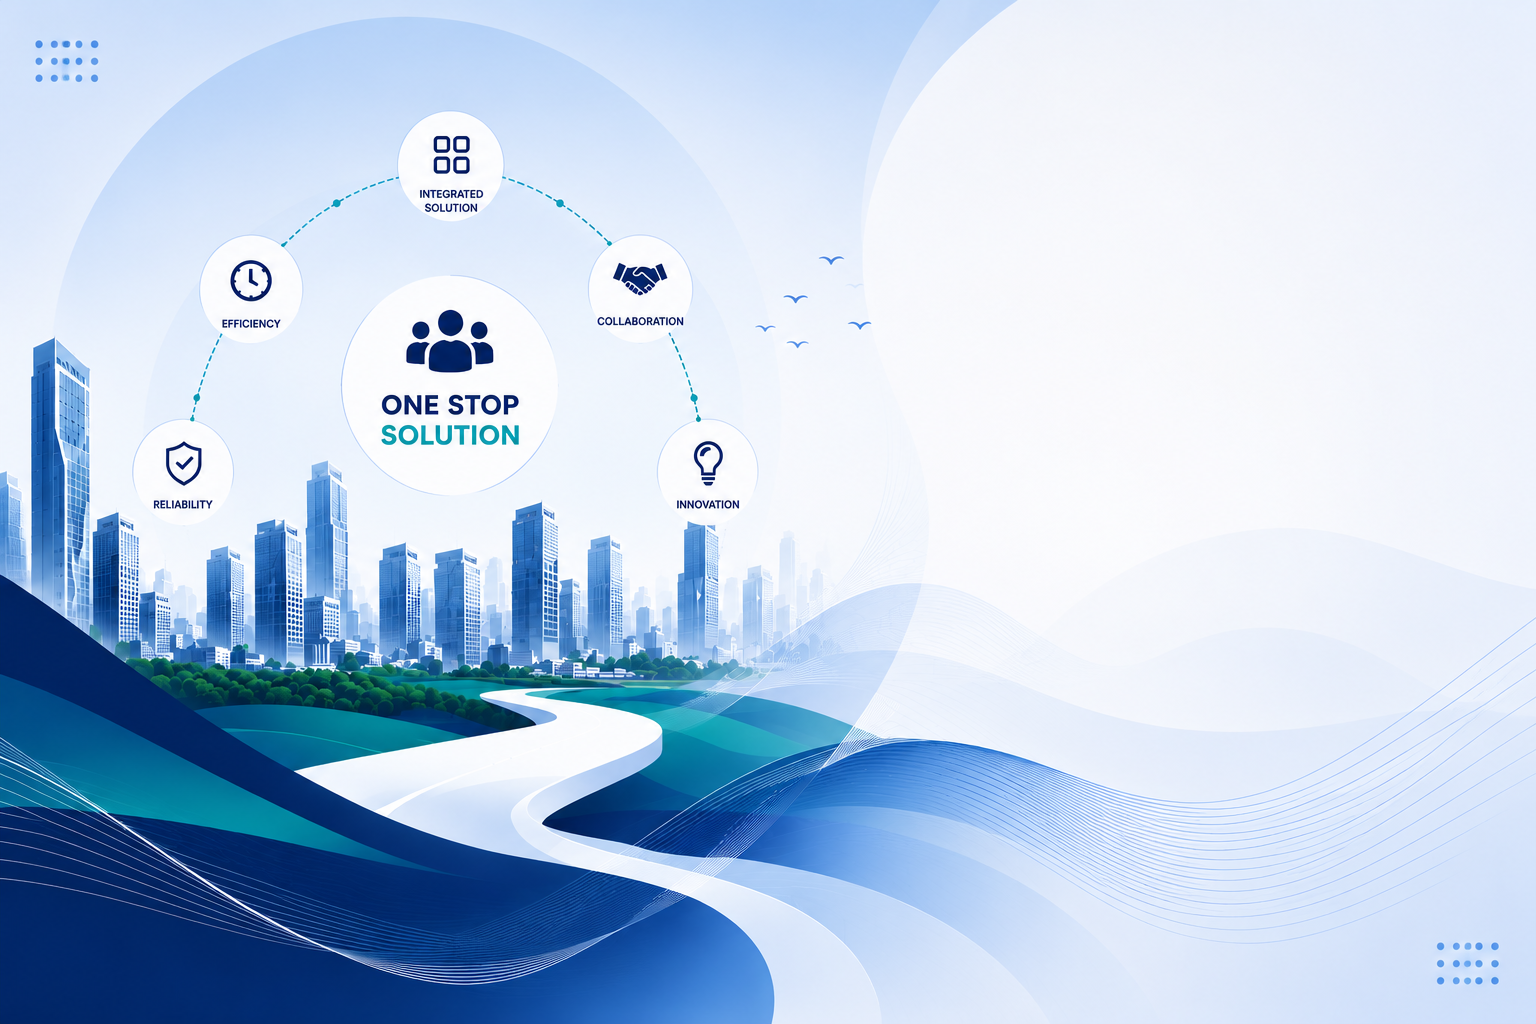
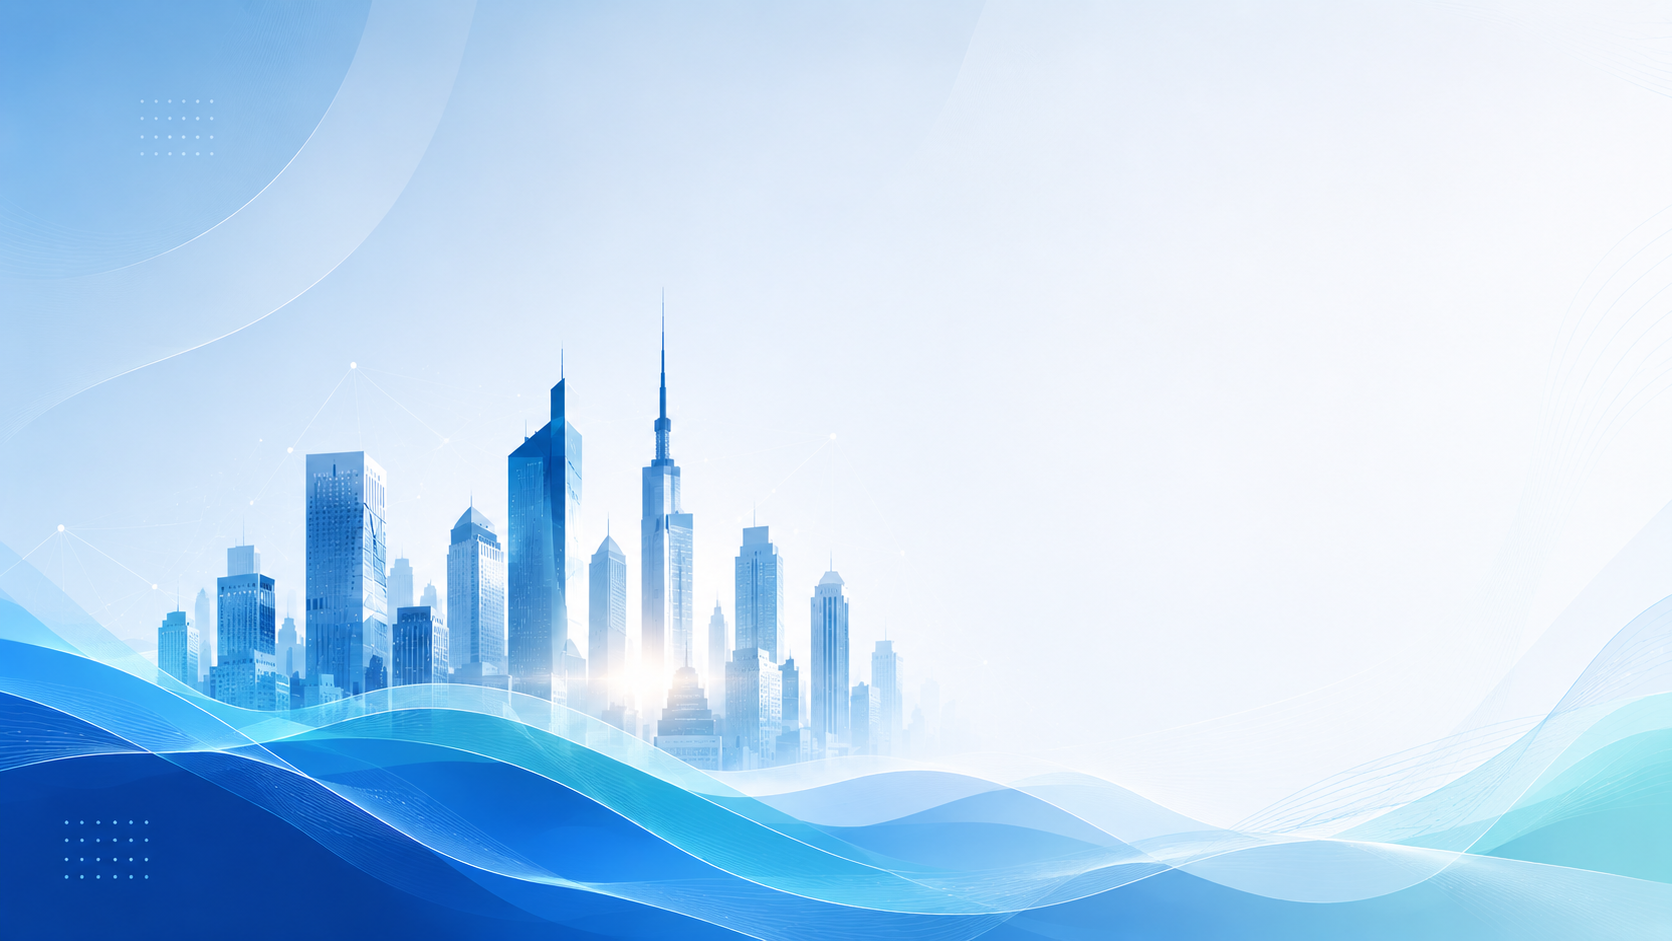
Update preview dan login page 15 Juli 2026

diff --git a/frontend/src/app/login/page.tsx b/frontend/src/app/login/page.tsx
@@ -6,7 +6,7 @@ import Image from 'next/image';
 import Cookies from 'js-cookie';
 import api from '@/lib/api';
 import { Button } from '@/components/ui/button';
-import { Loader2, Globe, ChevronDown, User, Lock, Eye, EyeOff } from 'lucide-react';
+import { Loader2, Globe, ChevronDown, User, Lock, Eye, EyeOff, ShieldAlert, Sparkles, ArrowRight } from 'lucide-react';
 
 import logoImage from '../../../public/logo_syncore.png';
 import bgImage from '../../../public/images/background_loginpage.png';
@@ -42,118 +42,146 @@ export default function LoginPage() {
     };
 
     return (
-        <div className="flex h-screen w-full font-sans overflow-hidden items-center relative bg-slate-50 antialiased">
+        <div className="flex min-h-screen w-full font-sans items-center justify-center relative bg-[#f8fafc] antialiased p-4 md:p-8">
             
-            {/* Background Image using static import for guaranteed loading */}
-            <div className="absolute inset-0 z-0">
-                <Image 
-                    src={bgImage}
-                    alt="Background Syncore"
-                    fill
-                    priority
-                    quality={100}
-                    unoptimized={true}
-                    className="object-cover object-center"
-                />
+            {/* Classic Enterprise Rings Background */}
+            <div className="absolute inset-0 z-0 overflow-hidden bg-gradient-to-br from-[#f4f7f9] via-[#e2eaf4] to-[#d1e0f0]">
+                {/* Massive subtle geometric rings */}
+                <div className="absolute -top-[30%] -right-[10%] w-[70vw] h-[70vw] rounded-full border-[100px] border-white/40 shadow-xl shadow-blue-900/5 mix-blend-overlay"></div>
+                <div className="absolute -bottom-[40%] -left-[10%] w-[60vw] h-[60vw] rounded-full border-[80px] border-white/30 shadow-lg shadow-blue-900/5 mix-blend-overlay"></div>
+                
+                {/* Additional floating ring for depth */}
+                <div className="absolute top-[20%] left-[20%] w-[30vw] h-[30vw] rounded-full border-[40px] border-white/20 mix-blend-overlay"></div>
             </div>
 
-            {/* Language Selector */}
-            <div className="absolute top-8 right-8 z-20 flex items-center gap-2 text-sm text-slate-700 font-medium bg-white px-5 py-2.5 rounded-full cursor-pointer hover:bg-slate-50 transition-colors shadow-sm border border-slate-200">
-                <Globe className="w-4 h-4 text-teal-600" />
-                <span>Bahasa Indonesia</span>
-                <ChevronDown className="w-4 h-4 text-teal-600" />
+            {/* Language Selector (Floating) - Light Theme */}
+            <div className="absolute top-6 right-6 lg:top-8 lg:right-10 z-30 flex items-center gap-2 text-sm text-slate-600 font-semibold bg-white/80 backdrop-blur-md px-5 py-2.5 rounded-full cursor-pointer hover:bg-white hover:text-[#005a9c] transition-all shadow-sm border border-slate-200/50">
+                <Globe className="w-4 h-4" />
+                <span className="hidden sm:inline">Bahasa Indonesia</span>
+                <span className="sm:hidden">ID</span>
+                <ChevronDown className="w-4 h-4" />
             </div>
 
-            {/* Login Container (Moved to the Right) */}
-            <div className="relative z-10 w-full max-w-[420px] mx-4 md:ml-auto md:mr-[8%] lg:mr-[12%]">
-                <div className="bg-white p-8 md:p-10 rounded-3xl shadow-[0_10px_40px_-10px_rgba(0,143,153,0.2)] border border-slate-100">
+            {/* Main Floating Container (Restored Dual-Card Layout) - Light glass */}
+            <div className="relative z-10 flex flex-col md:flex-row w-full max-w-[1100px] rounded-[2rem] overflow-hidden shadow-[0_20px_80px_-15px_rgba(0,30,80,0.15)] bg-white/50 backdrop-blur-xl border border-white/80 ring-1 ring-black/[0.03]">
+                
+                {/* LEFT PANEL - Info Area */}
+                <div className="hidden md:flex flex-col justify-center w-1/2 p-12 lg:p-16">
+                    <div className="max-w-[480px]">
+                        
+                        {/* Main Title with Premium Gradient */}
+                        <h1 className="text-4xl lg:text-[3.25rem] font-black text-[#0a1b3f] mb-7 leading-[1.1] tracking-tight">
+                            Integrated Solutions,<br />
+                            <span className="text-transparent bg-clip-text bg-gradient-to-r from-[#005a9c] via-[#007cc7] to-[#00b3a6] drop-shadow-sm">
+                                Stronger Business.
+                            </span>
+                        </h1>
+                        
+                        {/* Stylized Description with Left Border */}
+                        <div className="pl-6 border-l-[3px] border-[#005a9c]/20">
+                            <p className="text-lg lg:text-[1.1rem] text-[#1e345e]/90 leading-relaxed font-medium">
+                                Syncore is your integrated business platform to manage, monitor, and grow together in one <span className="font-bold text-[#005a9c]">seamless ecosystem.</span>
+                            </p>
+                        </div>
+                    </div>
+                </div>
+
+                {/* RIGHT PANEL - Login Box */}
+                <div className="w-full md:w-1/2 bg-white p-8 sm:p-12 lg:p-16 flex flex-col justify-center relative shadow-[-20px_0_40px_-10px_rgba(0,0,0,0.03)]">
                     
-                    <div className="relative z-10">
-                        {/* Logo */}
-                        <div className="flex justify-center mb-8">
-                            <div className="bg-white p-2 border border-slate-100 rounded-xl">
-                                <Image 
-                                    src={logoImage} 
-                                    alt="SYNCORE" 
-                                    width={160}
-                                    height={50}
-                                    className="object-contain" 
-                                    priority
-                                />
-                            </div>
+                    <div className="w-full max-w-[380px] mx-auto">
+                        
+                        {/* LOGO MOVED HERE: Because this panel is white, the logo's white background is perfectly invisible! */}
+                        <div className="flex justify-start mb-10">
+                            <Image 
+                                src={logoImage} 
+                                alt="SYNCORE" 
+                                width={240}
+                                height={70}
+                                className="object-contain" 
+                                priority
+                            />
                         </div>
 
-                        <div className="text-center mb-8">
-                            <h1 className="text-2xl font-bold text-slate-900 mb-2">Selamat Datang</h1>
-                            <p className="text-sm text-slate-500">Silakan masuk ke akun Anda</p>
+                        <div className="mb-8">
+                            <h2 className="text-[28px] font-bold text-slate-900 mb-1.5 tracking-tight">Selamat Datang</h2>
+                            <p className="text-sm text-slate-500 font-medium">Silakan masuk ke akun Anda untuk melanjutkan.</p>
                         </div>
 
                         <form onSubmit={handleLogin} className="space-y-5">
                             {error && (
-                                <div className="p-3 text-sm text-red-600 bg-red-50 border border-red-100 rounded-xl text-center">
-                                    {error}
+                                <div className="p-4 text-sm text-red-600 bg-red-50 border border-red-100 rounded-2xl flex items-start gap-3">
+                                    <div className="p-1 bg-red-100 rounded-full shrink-0 mt-0.5">
+                                        <ShieldAlert className="w-3 h-3 text-red-600" />
+                                    </div>
+                                    <p>{error}</p>
                                 </div>
                             )}
                             
                             <div className="space-y-1.5">
-                                <label className="text-sm font-medium text-slate-700 block ml-1 mb-1">Username</label>
+                                <label className="text-sm font-semibold text-slate-700 block ml-1">Email / Username</label>
                                 <div className="relative group">
-                                    <div className="absolute inset-y-0 left-0 pl-4 flex items-center pointer-events-none text-slate-400 group-focus-within:text-teal-600 transition-colors">
+                                    <div className="absolute inset-y-0 left-0 pl-4 flex items-center pointer-events-none text-slate-400 group-focus-within:text-[#005a9c] transition-colors">
                                         <User className="h-5 w-5" />
                                     </div>
                                     <input 
                                         type="email" 
-                                        placeholder="Masukkan username"
+                                        placeholder="Masukkan username Anda"
                                         value={email}
                                         onChange={(e) => setEmail(e.target.value)}
                                         required
-                                        className="w-full pl-11 pr-4 py-3.5 bg-white border border-slate-200 rounded-xl text-base text-slate-900 placeholder:text-slate-400 focus:outline-none focus:ring-2 focus:ring-teal-500/30 focus:border-teal-500 transition-all"
+                                        className="w-full pl-11 pr-4 py-3.5 bg-slate-50 border border-slate-200 rounded-xl text-base text-slate-900 placeholder:text-slate-400 focus:outline-none focus:ring-4 focus:ring-[#005a9c]/10 focus:border-[#005a9c] focus:bg-white transition-all shadow-sm"
                                     />
                                 </div>
                             </div>
 
                             <div className="space-y-1.5">
-                                <label className="text-sm font-medium text-slate-700 block ml-1 mb-1">Password</label>
+                                <label className="text-sm font-semibold text-slate-700 block ml-1">Password</label>
                                 <div className="relative group">
-                                    <div className="absolute inset-y-0 left-0 pl-4 flex items-center pointer-events-none text-slate-400 group-focus-within:text-teal-600 transition-colors">
+                                    <div className="absolute inset-y-0 left-0 pl-4 flex items-center pointer-events-none text-slate-400 group-focus-within:text-[#005a9c] transition-colors">
                                         <Lock className="h-5 w-5" />
                                     </div>
                                     <input 
                                         type={showPassword ? "text" : "password"} 
-                                        placeholder="Masukkan password"
+                                        placeholder="••••••••••••"
                                         value={password}
                                         onChange={(e) => setPassword(e.target.value)}
                                         required
-                                        className="w-full pl-11 pr-11 py-3.5 bg-white border border-slate-200 rounded-xl text-base text-slate-900 placeholder:text-slate-400 focus:outline-none focus:ring-2 focus:ring-teal-500/30 focus:border-teal-500 transition-all"
+                                        className="w-full pl-11 pr-11 py-3.5 bg-slate-50 border border-slate-200 rounded-xl text-base text-slate-900 placeholder:text-slate-400 focus:outline-none focus:ring-4 focus:ring-[#005a9c]/10 focus:border-[#005a9c] focus:bg-white transition-all shadow-sm font-medium tracking-widest"
                                     />
                                     <button 
                                         type="button"
                                         onClick={() => setShowPassword(!showPassword)}
-                                        className="absolute inset-y-0 right-0 pr-4 flex items-center text-slate-400 hover:text-teal-600 transition-colors"
+                                        className="absolute inset-y-0 right-0 pr-4 flex items-center text-slate-400 hover:text-[#005a9c] transition-colors"
                                     >
                                         {showPassword ? <EyeOff className="h-5 w-5" /> : <Eye className="h-5 w-5" />}
                                     </button>
                                 </div>
                             </div>
 
-                            <div className="flex items-center justify-between pt-2">
-                                <label className="flex items-center gap-2 cursor-pointer group">
-                                    <input 
-                                        type="checkbox" 
-                                        checked={rememberMe}
-                                        onChange={(e) => setRememberMe(e.target.checked)}
-                                        className="w-4 h-4 rounded text-teal-600 focus:ring-teal-500 border-slate-300"
-                                    />
+                            <div className="flex items-center justify-between pt-1">
+                                <label className="flex items-center gap-2.5 cursor-pointer group">
+                                    <div className="relative flex items-center justify-center">
+                                        <input 
+                                            type="checkbox" 
+                                            checked={rememberMe}
+                                            onChange={(e) => setRememberMe(e.target.checked)}
+                                            className="peer appearance-none w-5 h-5 border-2 border-slate-300 rounded-md checked:bg-[#005a9c] checked:border-[#005a9c] transition-all cursor-pointer focus:ring-4 focus:ring-[#005a9c]/20 focus:outline-none"
+                                        />
+                                        <svg className="absolute w-3 h-3 text-white opacity-0 peer-checked:opacity-100 pointer-events-none transition-opacity" fill="none" viewBox="0 0 24 24" stroke="currentColor" strokeWidth={3}>
+                                            <path strokeLinecap="round" strokeLinejoin="round" d="M5 13l4 4L19 7" />
+                                        </svg>
+                                    </div>
                                     <span className="text-sm font-medium text-slate-600 group-hover:text-slate-900 transition-colors">Ingat saya</span>
                                 </label>
-                                <a href="#" className="text-sm font-medium text-teal-700 hover:text-teal-900 transition-colors">
+                                <a href="#" className="text-sm font-semibold text-[#005a9c] hover:text-[#003d6b] transition-colors">
                                     Lupa password?
                                 </a>
                             </div>
 
                             <Button 
                                 type="submit" 
-                                className="w-full py-6 mt-2 text-base font-medium bg-gradient-to-r from-[#008f99] to-[#0052cc] hover:from-[#007a82] hover:to-[#0042a3] text-white rounded-xl shadow-lg shadow-teal-500/25 hover:-translate-y-0.5 transition-all duration-300"
+                                className="w-full py-6 mt-4 text-base font-bold bg-[#005a9c] hover:bg-[#003d6b] text-white rounded-xl shadow-lg shadow-[#005a9c]/25 hover:-translate-y-0.5 transition-all duration-300"
                                 disabled={loading}
                             >
                                 {loading ? (
@@ -168,13 +196,13 @@ export default function LoginPage() {
                         </form>
                     </div>
                 </div>
-
-                {/* Footer Copyright */}
-                <div className="absolute -bottom-12 w-full text-center">
-                    <p className="text-xs font-medium text-slate-500 bg-white py-1.5 px-4 rounded-full inline-block border border-slate-200 shadow-sm">
-                        © 2025 SYNCORE. All rights reserved.
-                    </p>
-                </div>
+            </div>
+            
+            {/* Footer Copyright at bottom center */}
+            <div className="absolute bottom-6 w-full text-center pointer-events-none z-10">
+                <p className="text-sm text-slate-400 font-medium drop-shadow-sm">
+                    © 2025 SYNCORE Platform. All rights reserved.
+                </p>
             </div>
         </div>
     );

diff --git a/frontend/src/components/RiwayatPreviewModal.tsx b/frontend/src/components/RiwayatPreviewModal.tsx
@@ -136,6 +136,24 @@ export default function RiwayatPreviewModal({ isOpen, onClose, historyId, previe
         return sortedKeys;
     }, [data]);
 
+    const rkaMonths = React.useMemo(() => {
+        const year = dateColumns.length > 0 ? (dateColumns[dateColumns.length - 1].match(/\d{4}/)?.[0] || new Date().getFullYear().toString()) : new Date().getFullYear().toString();
+        const shortYear = year.slice(-2);
+        const months = ['Jan', 'Feb', 'Mar', 'Apr', 'Mei', 'Jun', 'Jul', 'Ags', 'Sep', 'Okt', 'Nov', 'Des'];
+        return months.map(m => `${m}-${shortYear}`);
+    }, [dateColumns]);
+
+    const latestMonthIndex = React.useMemo(() => {
+        if (dateColumns.length === 0) return 11;
+        const lastDate = dateColumns[dateColumns.length - 1].toLowerCase();
+        const monthNames = ['jan', 'feb', 'mar', 'apr', 'mei', 'jun', 'jul', 'agu', 'sep', 'okt', 'nov', 'des'];
+        for (let i = 0; i < 12; i++) {
+            if (lastDate.includes(monthNames[i])) return i;
+        }
+        if (lastDate.includes('ags')) return 7;
+        return 11;
+    }, [dateColumns]);
+
     if (!isOpen) return null;
 
     return (
@@ -197,19 +215,37 @@ export default function RiwayatPreviewModal({ isOpen, onClose, historyId, previe
                                 <table className="min-w-max w-full text-[13px] text-left border-collapse">
                                     <thead className="text-[11px] text-slate-600 bg-slate-50 uppercase font-bold sticky top-0 z-10 shadow-sm">
                                         <tr>
-                                            <th className="px-4 py-3 border-b border-r border-slate-200 bg-slate-50 sticky left-0 z-20 shadow-[2px_0_5px_-2px_rgba(0,0,0,0.1)]">
+                                            <th rowSpan={2} className="px-4 py-3 border-b border-r border-slate-200 bg-slate-50 sticky left-0 z-20 shadow-[2px_0_5px_-2px_rgba(0,0,0,0.1)] text-center align-middle">
                                                 {previewType === 'monitoring_produk' ? 'Branch Office' : 'Mata Anggaran'}
                                             </th>
-                                            {dateColumns.map(date => (
-                                                <th key={date} className="px-4 py-3 border-b border-r border-slate-200 text-right whitespace-nowrap">{date}</th>
-                                            ))}
-                                            <th className="px-4 py-3 border-b border-r border-slate-200 text-right whitespace-nowrap bg-blue-50/50">RKA</th>
-                                            <th className="px-4 py-3 border-b border-r border-slate-200 text-right whitespace-nowrap bg-blue-50/50">Pencapaian RKA</th>
-                                            <th className="px-4 py-3 border-b border-r border-slate-200 text-right whitespace-nowrap bg-orange-50/50">MTD Growth</th>
-                                            <th className="px-4 py-3 border-b border-r border-slate-200 text-right whitespace-nowrap bg-orange-50/50">YTD Growth</th>
-                                            <th className="px-4 py-3 border-b border-slate-200 text-right whitespace-nowrap bg-orange-50/50">
-                                                {previewType === 'monitoring_produk' ? 'DTD Growth' : 'YoY Growth'}
+                                            {dateColumns.length > 0 && (
+                                                <th colSpan={dateColumns.length} className="px-4 py-2 border-b border-r border-slate-200 text-center bg-slate-100">
+                                                    POSISI
+                                                </th>
+                                            )}
+                                            <th colSpan={12} className="px-4 py-2 border-b border-r border-slate-200 text-center bg-blue-100/50">
+                                                RKA
                                             </th>
+                                            <th rowSpan={2} className="px-4 py-2 border-b border-r border-slate-200 text-center align-middle bg-blue-50/50">
+                                                PENCAPAIAN RKA
+                                            </th>
+                                            <th colSpan={4} className="px-4 py-2 border-b border-slate-200 text-center bg-orange-100/50">
+                                                GROWTH
+                                            </th>
+                                        </tr>
+                                        <tr>
+                                            {dateColumns.map(date => (
+                                                <th key={date} className="px-4 py-2 border-b border-r border-slate-200 text-right whitespace-nowrap bg-slate-50">{date}</th>
+                                            ))}
+                                            {rkaMonths.map((m, i) => (
+                                                <th key={`rka-${i}`} className="px-4 py-2 border-b border-r border-slate-200 text-right whitespace-nowrap bg-blue-50/50">
+                                                    {m}
+                                                </th>
+                                            ))}
+                                            <th className="px-4 py-2 border-b border-r border-slate-200 text-right whitespace-nowrap bg-orange-50/50">DTD</th>
+                                            <th className="px-4 py-2 border-b border-r border-slate-200 text-right whitespace-nowrap bg-orange-50/50">MTD</th>
+                                            <th className="px-4 py-2 border-b border-r border-slate-200 text-right whitespace-nowrap bg-orange-50/50">YTD</th>
+                                            <th className="px-4 py-2 border-b border-slate-200 text-right whitespace-nowrap bg-orange-50/50">YOY</th>
                                         </tr>
                                     </thead>
                                     <tbody className="divide-y divide-slate-100">
@@ -223,11 +259,16 @@ export default function RiwayatPreviewModal({ isOpen, onClose, historyId, previe
                                                         {row.values && row.values[date] !== undefined ? formatCurrency(row.values[date]) : '-'}
                                                     </td>
                                                 ))}
-                                                <td className="px-4 py-2.5 text-right font-medium text-slate-600 border-r border-slate-100 whitespace-nowrap bg-blue-50/10">
-                                                    {row.rka ? formatCurrency(row.rka) : '-'}
-                                                </td>
+                                                {rkaMonths.map((_, i) => (
+                                                    <td key={`rka-val-${i}`} className="px-4 py-2.5 text-right font-medium text-slate-600 border-r border-slate-100 whitespace-nowrap bg-blue-50/10">
+                                                        {i === latestMonthIndex && row.rka ? formatCurrency(row.rka) : '-'}
+                                                    </td>
+                                                ))}
                                                 <td className="px-4 py-2.5 text-right font-medium text-slate-600 border-r border-slate-100 whitespace-nowrap bg-blue-50/10">
                                                     {row.pencapaian_rka ? `${(row.pencapaian_rka * 100).toFixed(2)}%` : '-'}
+                                                </td>
+                                                <td className={`px-4 py-2.5 text-right font-medium whitespace-nowrap border-r border-slate-100 bg-orange-50/10 ${row.dtd < 0 ? 'text-red-600' : 'text-green-600'}`}>
+                                                    {formatCurrency(row.dtd)}
                                                 </td>
                                                 <td className={`px-4 py-2.5 text-right font-medium whitespace-nowrap border-r border-slate-100 bg-orange-50/10 ${row.mtd < 0 ? 'text-red-600' : 'text-green-600'}`}>
                                                     {formatCurrency(row.mtd)}
@@ -235,8 +276,8 @@ export default function RiwayatPreviewModal({ isOpen, onClose, historyId, previe
                                                 <td className={`px-4 py-2.5 text-right font-medium whitespace-nowrap border-r border-slate-100 bg-orange-50/10 ${row.ytd < 0 ? 'text-red-600' : 'text-green-600'}`}>
                                                     {formatCurrency(row.ytd)}
                                                 </td>
-                                                <td className={`px-4 py-2.5 text-right font-medium whitespace-nowrap bg-orange-50/10 ${(previewType === 'monitoring_produk' ? row.dtd : row.yoy) < 0 ? 'text-red-600' : 'text-green-600'}`}>
-                                                    {formatCurrency(previewType === 'monitoring_produk' ? row.dtd : row.yoy)}
+                                                <td className={`px-4 py-2.5 text-right font-medium whitespace-nowrap bg-orange-50/10 ${row.yoy < 0 ? 'text-red-600' : 'text-green-600'}`}>
+                                                    {formatCurrency(row.yoy)}
                                                 </td>
                                             </tr>
                                         ))}

diff --git a/frontend/src/components/layout/Sidebar.tsx b/frontend/src/components/layout/Sidebar.tsx
@@ -28,6 +28,7 @@ import {
     AlignLeft
 } from 'lucide-react';
 import logoImage from '../../../public/logo_syncore.png';
+import logoSmall from '../../../public/logo_syncore_navbarkecil.png';
 import { useEffect, useState } from 'react';
 import Cookies from 'js-cookie';
 
@@ -117,12 +118,18 @@ export default function Sidebar() {
                         quality={100}
                         unoptimized
                     />
-                    <div className={cn(
-                        "w-11 h-11 bg-gradient-to-br from-[#1a2f5c] to-blue-700 rounded-2xl flex items-center justify-center text-white font-bold text-xl shadow-lg shadow-blue-900/20 transition-all duration-300 absolute",
-                        isCollapsed ? "opacity-100 scale-100" : "opacity-0 scale-75 pointer-events-none"
-                    )}>
-                        S
-                    </div>
+                    <Image
+                        src={logoSmall}
+                        alt="SYNCORE Logo Small"
+                        height={40}
+                        className={cn(
+                            "object-contain w-auto h-11 transition-all duration-300 absolute",
+                            isCollapsed ? "opacity-100 scale-100" : "opacity-0 scale-75 pointer-events-none"
+                        )}
+                        priority
+                        quality={100}
+                        unoptimized
+                    />
                 </div>
             </div>
 